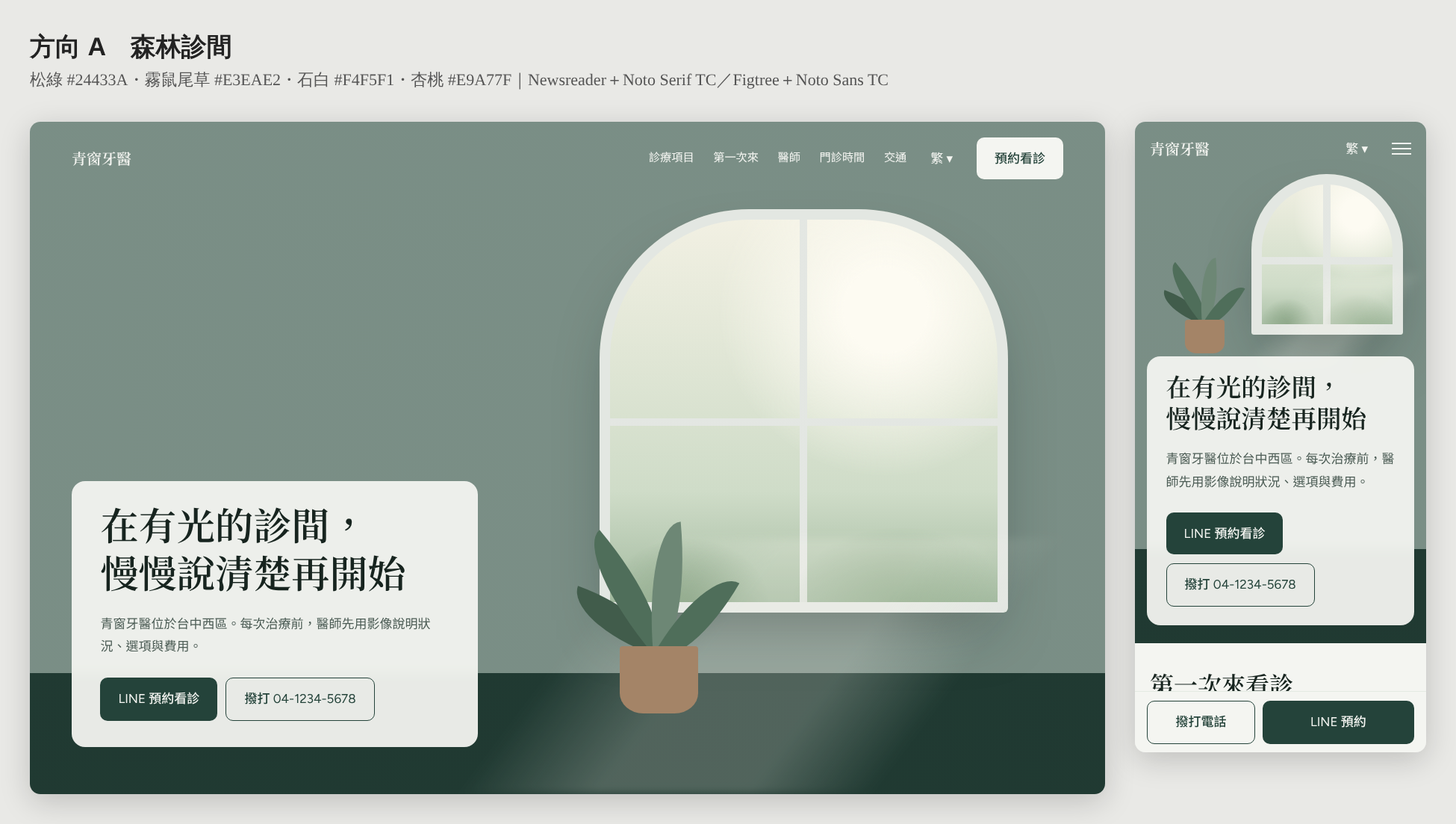
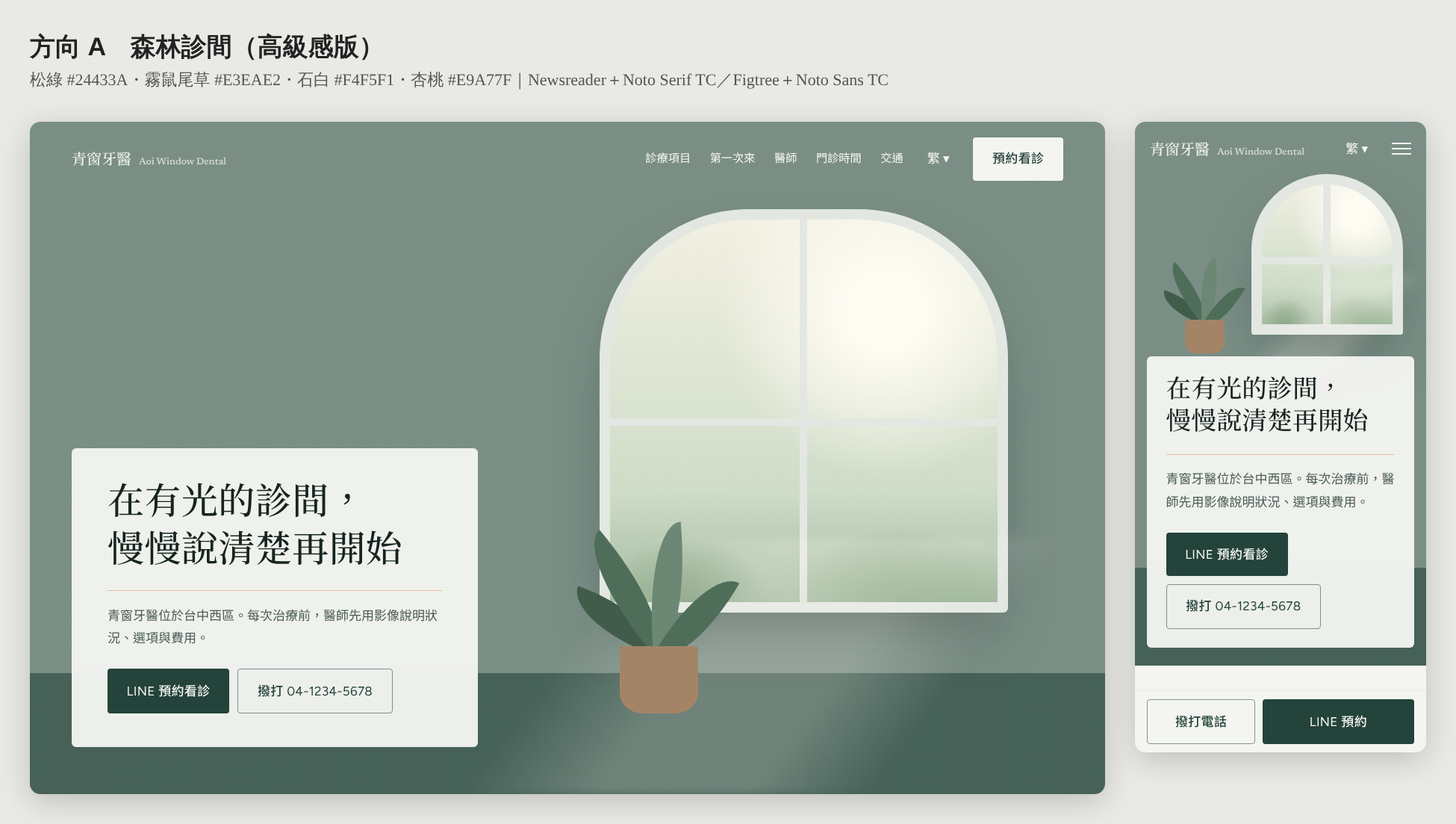
Add premium-feel standard (DESIGN.md 2.9), upgrade clinic #2 mockups
Claude-Session: https://claude.ai/code/session_016ub6HU8UtdgPHkCx1HUXwU

diff --git a/research_notes/牙醫第二款示意圖/B-親子小牙醫.html b/research_notes/牙醫第二款示意圖/B-親子小牙醫.html
@@ -1,49 +1,49 @@
 <!DOCTYPE html><html lang="zh-Hant"><head><meta charset="UTF-8"><meta name="viewport" content="width=device-width, initial-scale=1">
-<link href="https://fonts.googleapis.com/css2?family=Fredoka:wght@600&family=Nunito+Sans:wght@400;700&family=Noto+Sans+TC:wght@400;500;700;900&display=swap" rel="stylesheet">
+<link href="https://fonts.googleapis.com/css2?family=Young+Serif&family=Nunito+Sans:wght@400;600&family=Noto+Serif+TC:wght@500&family=Noto+Sans+TC:wght@400;500&display=swap" rel="stylesheet">
 <style>
-:root{--bg:#F5F9FF;--navy:#1B2A4A;--sun:#FFD45C;--coral:#FF8A6B;--mint:#CDEFE3;--muted:#46536E;--white:#FCFDFF}
+:root{--bg:#F6F7F4;--navy:#1E2B45;--sun:#E9C46A;--coral:#D98E7A;--mint:#DCE8E1;--muted:#4D5768;--white:#FBFBF9}
 *{box-sizing:border-box;margin:0;padding:0}
 p{text-wrap:pretty}
 body{background:var(--bg);color:var(--navy);font:400 17px/1.8 "Nunito Sans","Noto Sans TC",sans-serif;overflow-x:clip}
-h1,h2{font-family:Fredoka,"Noto Sans TC",sans-serif;font-weight:700;line-height:1.25;text-wrap:balance}
+h1,h2{font-family:"Young Serif","Noto Serif TC",serif;font-weight:500;line-height:1.3;text-wrap:balance}
 header{display:flex;align-items:center;gap:2rem;padding:1.2rem clamp(1.25rem,4vw,3.5rem)}
-.logo{display:flex;align-items:center;gap:.55rem;font:900 1.2rem/1 "Noto Sans TC";margin-right:auto}
-.logo i{width:34px;height:34px;border-radius:12px;background:var(--sun);display:grid;place-items:center}
-.logo i::after{content:"";width:14px;height:14px;background:var(--navy);clip-path:polygon(50% 0,61% 35%,98% 35%,68% 57%,79% 91%,50% 70%,21% 91%,32% 57%,2% 35%,39% 35%)}
+.logo{display:flex;align-items:center;gap:.6rem;font:500 1.2rem/1 "Noto Serif TC";margin-right:auto}
+.logo i{width:30px;height:30px;border-radius:50%;background:var(--sun);display:grid;place-items:center}
+.logo i::after{content:"";width:10px;height:10px;border-radius:50%;background:var(--navy)}
 nav{display:flex;gap:1.5rem;font-weight:500;font-size:.95rem}
-.btn{display:inline-flex;align-items:center;justify-content:center;padding:.85rem 1.6rem;border-radius:999px;font-weight:700;text-decoration:none}
-.btn-p{background:var(--navy);color:var(--white)}.btn-s{background:var(--sun);color:var(--navy)}.btn-g{border:2px solid var(--navy)}
-.hero{display:grid;grid-template-columns:minmax(0,1fr) minmax(0,1fr);gap:3rem;align-items:center;padding:2.5rem clamp(1.25rem,4vw,3.5rem) 4rem;max-width:1300px;margin:auto}
-.hero h1{font-size:clamp(2.2rem,4vw,3.6rem);margin-bottom:1rem}
+.btn{display:inline-flex;align-items:center;justify-content:center;padding:.85rem 1.6rem;border-radius:999px;font-weight:600;text-decoration:none}
+.btn-p{background:var(--navy);color:var(--white)}.btn-s{background:var(--navy);color:var(--white)}.btn-g{border:1px solid color-mix(in srgb,var(--navy) 45%,transparent)}
+.hero{display:grid;grid-template-columns:minmax(0,1fr) minmax(0,1fr);gap:5rem;align-items:center;padding:4rem clamp(1.25rem,4vw,3.5rem) 4rem;max-width:1300px;margin:auto}
+.hero h1{font-size:clamp(2.2rem,3.8vw,3.4rem);margin-bottom:1.2rem}
 .hero p{color:var(--muted);font-size:1.08rem;margin-bottom:1.8rem;max-width:30rem}
 .cta{display:flex;flex-wrap:wrap;gap:.7rem}
 .facts{display:flex;gap:.6rem;margin-top:1.6rem;flex-wrap:wrap}
-.facts span{background:var(--mint);padding:.3rem .9rem;border-radius:999px;font-size:.88rem;font-weight:500}
-.art{position:relative;aspect-ratio:1/.92}
-.blob{position:absolute;inset:4% 6% 2% 4%;border-radius:58% 42% 48% 52%/52% 46% 54% 48%;background:var(--sun)}
-.photo{position:absolute;inset:12% 14% 10% 12%;border-radius:46% 54% 44% 56%/50% 44% 56% 50%;overflow:hidden;
- background:radial-gradient(circle at 38% 40%,#ffe9d8 0 12%,transparent 12.5%),radial-gradient(ellipse 22% 26% at 38% 70%,var(--coral) 0 98%,transparent),radial-gradient(circle at 64% 46%,#f6dcc6 0 9%,transparent 9.5%),radial-gradient(ellipse 16% 20% at 64% 74%,color-mix(in srgb,var(--navy) 70%,var(--mint)) 0 98%,transparent),linear-gradient(180deg,var(--mint),color-mix(in srgb,var(--mint) 60%,var(--white)))}
-.brush{position:absolute;right:2%;top:14%;width:9%;height:44%;border-radius:20px;background:var(--coral);transform:rotate(22deg)}
-.brush::before{content:"";position:absolute;top:-16%;left:-10%;right:-10%;height:22%;border-radius:8px;background:repeating-linear-gradient(90deg,var(--white) 0 4px,var(--mint) 4px 8px)}
-.star{position:absolute;width:12%;aspect-ratio:1;background:var(--coral);clip-path:polygon(50% 0,61% 35%,98% 35%,68% 57%,79% 91%,50% 70%,21% 91%,32% 57%,2% 35%,39% 35%)}
-.s1{left:0;top:8%}.s2{left:8%;bottom:4%;width:8%;background:var(--navy)}.s3{right:12%;bottom:0;width:7%;background:var(--sun);outline:0}
-.wave{height:60px;background:radial-gradient(40px 30px at 40px 60px,var(--white) 98%,transparent) 0 0/80px 60px repeat-x}
-.svc{background:var(--white);padding:2.5rem clamp(1.25rem,4vw,3.5rem) 5rem}
+.facts span{font-size:.9rem;color:var(--muted);padding-right:1rem;border-right:1px solid color-mix(in srgb,var(--navy) 20%,transparent)}.facts span:last-child{border:0}
+.art{position:relative;aspect-ratio:4/4.6;max-width:500px;justify-self:end;width:100%}
+.photo{position:absolute;inset:0 0 0 8%;border-radius:999px 999px 8px 8px;overflow:hidden;
+ background:radial-gradient(ellipse 60% 45% at 70% 18%,color-mix(in srgb,var(--white) 80%,transparent),transparent 70%),
+ radial-gradient(circle at 40% 44%,#efd9c8 0 7%,transparent 7.3%),radial-gradient(ellipse 17% 21% at 40% 66%,var(--coral) 0 98%,transparent),
+ radial-gradient(circle at 63% 39%,#e6cbb6 0 9.5%,transparent 9.8%),radial-gradient(ellipse 23% 30% at 63% 70%,color-mix(in srgb,var(--navy) 75%,var(--mint)) 0 98%,transparent),
+ linear-gradient(180deg,var(--mint),color-mix(in srgb,var(--mint) 55%,var(--sun)) 100%)}
+.ring{position:absolute;left:0;bottom:12%;width:30%;aspect-ratio:1;border-radius:50%;border:1px solid color-mix(in srgb,var(--navy) 35%,transparent)}
+.dot{position:absolute;left:4%;bottom:6%;width:12%;aspect-ratio:1;border-radius:50%;background:var(--sun)}
+.wave{height:0}
+.svc{background:var(--white);padding:6rem clamp(1.25rem,4vw,3.5rem) 5rem}
 .svc h2{text-align:center;font-size:2rem;margin-bottom:1.3rem}
 .tabs{display:flex;justify-content:center;gap:.5rem;margin-bottom:2rem}
-.tabs span{padding:.7rem 1.6rem;border-radius:999px;border:2px solid color-mix(in srgb,var(--navy) 18%,transparent);font-weight:700}
-.tabs .on{background:var(--sun);border-color:var(--sun)}
+.tabs span{padding:.6rem 1.5rem;border-radius:999px;border:1px solid color-mix(in srgb,var(--navy) 22%,transparent);font-weight:600}
+.tabs .on{background:var(--navy);border-color:var(--navy);color:var(--white)}
 .items{display:grid;grid-template-columns:repeat(4,minmax(0,1fr));gap:1rem;max-width:1200px;margin:auto}
-.it{background:var(--bg);border-radius:24px;padding:1.4rem}.it h3{font-size:1.08rem}.it p{color:var(--muted);font-size:.92rem;line-height:1.65}
+.it{border-top:1px solid color-mix(in srgb,var(--navy) 18%,transparent);padding:1.2rem 0}.it h3{font-size:1.08rem}.it p{color:var(--muted);font-size:.92rem;line-height:1.65}
 .mbar{display:none}.burger{display:none;width:26px;height:16px;border-top:2px solid;border-bottom:2px solid;position:relative}.burger::after{content:"";position:absolute;left:0;right:0;top:5px;border-top:2px solid}
 @media(max-width:760px){nav,header .btn{display:none}.burger{display:block}
- .hero{grid-template-columns:1fr;gap:1.2rem;padding-top:.5rem}.art{order:-1;max-width:330px;width:100%;margin:auto;aspect-ratio:1/.75}
+ .hero{grid-template-columns:1fr;gap:1.2rem;padding-top:.5rem}.art{order:-1;max-width:none;justify-self:stretch;aspect-ratio:1/1.05}.photo{inset:0;border-radius:180px 180px 8px 8px}.ring,.dot{display:none}
  .items{grid-template-columns:repeat(2,minmax(0,1fr))}.tabs span{padding:.6rem 1.1rem}
  .mbar{display:grid;grid-template-columns:1fr 1.4fr;gap:.6rem;position:fixed;inset:auto 0 0;padding:.7rem 1rem;background:var(--white);z-index:9;box-shadow:0 -1px 0 var(--mint)}}
 </style></head><body>
 <header><span class="logo"><i></i>晴晴親子牙醫</span><nav><span>孩子看牙</span><span>大人</span><span>長輩</span><span>門診時間</span><span>交通</span></nav><span>繁 ▾</span><a class="btn btn-s">LINE 預約</a><span class="burger"></span></header>
 <section class="hero"><div><h1>第一次看牙，<br>從認識診間開始</h1><p>晴晴牙醫在新竹東區。先讓孩子摸摸器材、躺躺看椅子，準備好了再檢查。</p><div class="cta"><a class="btn btn-p">LINE 預約</a><a class="btn btn-g">撥打 03-123-4567</a></div><div class="facts"><span>兒童塗氟</span><span>窩溝封填</span><span>週六全天看診</span></div></div>
-<div class="art"><div class="blob"></div><div class="photo"></div><div class="brush"></div><i class="star s1"></i><i class="star s2"></i><i class="star s3"></i></div></section>
+<div class="art" role="img" aria-label="孩子與家長在診間的照片位置"><div class="photo"></div><div class="ring"></div><div class="dot"></div></div></section>
 <div class="wave"></div>
 <section class="svc"><h2>誰要來看牙？</h2><div class="tabs"><span class="on">孩子</span><span>大人</span><span>長輩</span></div>
 <div class="items"><div class="it"><h3>乳牙檢查</h3><p>長出第一顆牙就可以開始。</p></div><div class="it"><h3>兒童塗氟</h3><p>未滿 6 歲每半年一次。</p></div><div class="it"><h3>窩溝封填</h3><p>恆牙長出後保護咬合面。</p></div><div class="it"><h3>蛀牙治療</h3><p>先溝通、再分次進行。</p></div></div></section>

diff --git a/research_notes/牙醫第二款示意圖/A-森林診間.html b/research_notes/牙醫第二款示意圖/A-森林診間.html
@@ -1,19 +1,19 @@
 <!DOCTYPE html><html lang="zh-Hant"><head><meta charset="UTF-8"><meta name="viewport" content="width=device-width, initial-scale=1">
-<link href="https://fonts.googleapis.com/css2?family=Newsreader:opsz,wght@6..72,500&family=Figtree:wght@400;600&family=Noto+Serif+TC:wght@600&family=Noto+Sans+TC:wght@400;500&display=swap" rel="stylesheet">
+<link href="https://fonts.googleapis.com/css2?family=Newsreader:opsz,wght@6..72,500&family=Figtree:wght@400;600&family=Noto+Serif+TC:wght@500&family=Noto+Sans+TC:wght@400;500&display=swap" rel="stylesheet">
 <style>
 :root{--pine:#24433A;--sage:#E3EAE2;--stone:#F4F5F1;--ink:#17241F;--apricot:#E9A77F;--muted:#4C5C55;--sky:#EEF3EC;--leaf:#4F6E5A}
 *{box-sizing:border-box;margin:0;padding:0}
 p{text-wrap:pretty}
 body{background:var(--stone);color:var(--ink);font:400 17px/1.8 Figtree,"Noto Sans TC",sans-serif;overflow-x:clip}
-h1,h2{font-family:Newsreader,"Noto Serif TC",serif;font-weight:600;line-height:1.25;text-wrap:balance}
+h1,h2{font-family:Newsreader,"Noto Serif TC",serif;font-weight:500;line-height:1.3;letter-spacing:.01em;text-wrap:balance}
 header{position:absolute;inset:0 0 auto;z-index:5;display:flex;align-items:center;gap:2rem;padding:1.3rem clamp(1.25rem,4vw,3.5rem);color:var(--stone)}
-.logo{font:600 1.25rem/1 "Noto Serif TC",serif;margin-right:auto}
+.logo{font:500 1.25rem/1 "Noto Serif TC",serif;margin-right:auto}
 nav{display:flex;gap:1.6rem;font-size:.95rem}
-.btn{display:inline-flex;align-items:center;justify-content:center;padding:.8rem 1.5rem;border-radius:10px;font-weight:500;text-decoration:none}
-.btn-p{background:var(--pine);color:var(--stone)}.btn-g{border:1.5px solid var(--pine);color:var(--pine)}
+.btn{display:inline-flex;align-items:center;justify-content:center;padding:.85rem 1.6rem;border-radius:4px;font-weight:500;letter-spacing:.02em;text-decoration:none}
+.btn-p{background:var(--pine);color:var(--stone)}.btn-g{border:1px solid color-mix(in srgb,var(--pine) 55%,transparent);color:var(--pine)}
 header .btn-p{background:var(--stone);color:var(--pine)}
 .hero{position:relative;height:min(100vh,900px);min-height:640px;overflow:hidden;
- background:linear-gradient(180deg,color-mix(in srgb,var(--pine) 55%,var(--sage)) 0 82%,color-mix(in srgb,var(--pine) 70%,var(--ink)) 82%)}
+ background:linear-gradient(180deg,color-mix(in srgb,var(--pine) 55%,var(--sage)) 0 82%,color-mix(in srgb,var(--pine) 82%,var(--sage)) 82%)}
 /* 窗 */
 .win{position:absolute;right:9%;top:13%;width:38%;height:60%;border-radius:200px 200px 6px 6px;
  background:radial-gradient(circle at 70% 25%,#fdfbf2 0 10%,transparent 40%),linear-gradient(180deg,#f3f1e4,#cfdcc8 70%,#9fb79c);
@@ -29,14 +29,14 @@ header .btn-p{background:var(--stone);color:var(--pine)}
 .pot{position:absolute;bottom:0;left:22%;width:56%;height:32%;border-radius:4px 4px 30% 30%;background:color-mix(in srgb,var(--apricot) 65%,var(--pine))}
 .lf{position:absolute;bottom:28%;left:46%;width:28%;height:62%;border-radius:100% 0;background:var(--leaf);transform-origin:bottom left}
 .l1{transform:rotate(-40deg)}.l2{transform:rotate(-5deg);background:color-mix(in srgb,var(--leaf) 80%,var(--sage))}.l3{transform:rotate(30deg);height:50%}.l4{transform:rotate(-70deg);height:45%;background:color-mix(in srgb,var(--leaf) 75%,var(--ink))}
-.panel{position:absolute;left:clamp(1.25rem,4vw,3.5rem);bottom:clamp(2rem,7vh,4.5rem);width:min(34rem,calc(100% - 2.5rem));padding:2.2rem 2.4rem;border-radius:18px;background:color-mix(in srgb,var(--stone) 94%,transparent);backdrop-filter:blur(8px)}
-.panel h1{font-size:clamp(2.1rem,3.6vw,3.2rem);margin-bottom:.8rem}
+.panel{position:absolute;left:clamp(1.25rem,4vw,3.5rem);bottom:clamp(2rem,7vh,4.5rem);width:min(34rem,calc(100% - 2.5rem));padding:2.8rem 3rem;border-radius:6px;background:color-mix(in srgb,var(--stone) 96%,transparent);backdrop-filter:blur(8px)}
+.panel h1{font-size:clamp(2.1rem,3.4vw,3.1rem);margin-bottom:1.1rem;padding-bottom:1.1rem;border-bottom:1px solid color-mix(in srgb,var(--apricot) 70%,transparent)}
 .panel p{color:var(--muted);margin-bottom:1.6rem}
 .cta{display:flex;flex-wrap:wrap;gap:.7rem}
-.steps{display:grid;grid-template-columns:repeat(3,minmax(0,1fr));gap:2rem;padding:4.5rem clamp(1.25rem,4vw,3.5rem);max-width:1240px;margin:auto}
+.steps{display:grid;grid-template-columns:repeat(3,minmax(0,1fr));gap:2rem;padding:7rem clamp(1.25rem,4vw,3.5rem);max-width:1240px;margin:auto}
 .steps h2{grid-column:1/-1;font-size:2rem}
-.step{border-top:2px solid var(--pine);padding-top:1rem}
-.step b{font:600 1.7rem/1 Newsreader,serif;color:var(--pine);display:block;margin-bottom:.5rem}
+.step{border-top:1px solid color-mix(in srgb,var(--pine) 40%,transparent);padding-top:1rem}
+.step b{font:400 1.9rem/1 Newsreader,serif;color:var(--pine);display:block;margin-bottom:.5rem}
 .step h3{font-size:1.1rem;font-weight:500}.step p{color:var(--muted);font-size:.95rem}
 .mbar{display:none}
 .burger{display:none;width:26px;height:16px;border-top:2px solid;border-bottom:2px solid;position:relative}
@@ -50,7 +50,7 @@ header .btn-p{background:var(--stone);color:var(--pine)}
  .mbar{display:grid;grid-template-columns:1fr 1.4fr;gap:.6rem;position:fixed;inset:auto 0 0;padding:.7rem 1rem;background:var(--stone);box-shadow:0 -1px 0 var(--sage);z-index:9}}
 
 </style></head><body>
-<header><span class="logo">青窗牙醫</span><nav><span>診療項目</span><span>第一次來</span><span>醫師</span><span>門診時間</span><span>交通</span></nav><span>繁 ▾</span><a class="btn btn-p">預約看診</a><span class="burger"></span></header>
+<header><span class="logo">青窗牙醫 <small style="font:400 .8rem Newsreader;opacity:.75;margin-left:.3rem">Aoi Window Dental</small></span><nav><span>診療項目</span><span>第一次來</span><span>醫師</span><span>門診時間</span><span>交通</span></nav><span>繁 ▾</span><a class="btn btn-p">預約看診</a><span class="burger"></span></header>
 <section class="hero"><div class="scene"><div class="win"></div><div class="beam"></div><div class="plant"><div class="lf l4"></div><div class="lf l1"></div><div class="lf l2"></div><div class="lf l3"></div><div class="pot"></div></div></div>
 <div class="panel"><h1>在有光的診間，慢慢說清楚再開始</h1><p>青窗牙醫位於台中西區。每次治療前，醫師先用影像說明狀況、選項與費用。</p><div class="cta"><a class="btn btn-p">LINE 預約看診</a><a class="btn btn-g">撥打 04-1234-5678</a></div></div></section>
 <section class="steps"><h2>第一次來看診</h2><div class="step"><b>1</b><h3>預約時段</h3><p>LINE 或電話預約，告訴我們哪裡不舒服。</p></div><div class="step"><b>2</b><h3>檢查與說明</h3><p>拍攝影像後，醫師說明狀況與可選的治療方式。</p></div><div class="step"><b>3</b><h3>確認後再治療</h3><p>了解費用與時程，你決定好了再開始。</p></div></section>

diff --git a/research_notes/牙醫第二款示意圖/C-門診看板.html b/research_notes/牙醫第二款示意圖/C-門診看板.html
@@ -1,36 +1,36 @@
 <!DOCTYPE html><html lang="zh-Hant"><head><meta charset="UTF-8"><meta name="viewport" content="width=device-width, initial-scale=1">
-<link href="https://fonts.googleapis.com/css2?family=Schibsted+Grotesk:wght@400;600;800&family=Noto+Sans+TC:wght@400;500;700;900&display=swap" rel="stylesheet">
+<link href="https://fonts.googleapis.com/css2?family=Schibsted+Grotesk:wght@400;500;600&family=Noto+Sans+TC:wght@400;500;700&display=swap" rel="stylesheet">
 <style>
-:root{--paper:#F1F1EE;--ink:#14213D;--cobalt:#2F54EB;--signal:#E8590C;--ice:#E3E9FD;--muted:#4A5468;--line:#D6D7D2;--white:#FBFBF9}
+:root{--paper:#F1F1EE;--ink:#14213D;--cobalt:#273C9E;--signal:#C2410C;--ice:#E6E8EF;--muted:#4A5468;--line:#D6D7D2;--white:#FBFBF9}
 *{box-sizing:border-box;margin:0;padding:0}
 p{text-wrap:pretty}
 body{background:var(--paper);color:var(--ink);font:400 18px/1.75 "Schibsted Grotesk","Noto Sans TC",sans-serif;overflow-x:clip;font-variant-numeric:tabular-nums}
 header{display:flex;align-items:center;gap:2rem;padding:1.2rem clamp(1.25rem,4vw,3.5rem);border-bottom:1px solid var(--line)}
-.logo{font:900 1.2rem/1 "Noto Sans TC";margin-right:auto;display:flex;gap:.6rem;align-items:center}
-.logo i{width:30px;height:30px;border-radius:8px;background:var(--cobalt);position:relative}
+.logo{font:700 1.15rem/1 "Noto Sans TC";margin-right:auto;display:flex;gap:.6rem;align-items:center}
+.logo i{width:28px;height:28px;border-radius:4px;background:var(--cobalt);position:relative}
 .logo i::after{content:"";position:absolute;inset:7px 13px;background:var(--white)}.logo i::before{content:"";position:absolute;inset:13px 7px;background:var(--white)}
 nav{display:flex;gap:1.6rem;font-size:.95rem;font-weight:500}
-.btn{display:inline-flex;align-items:center;justify-content:center;padding:.85rem 1.6rem;border-radius:8px;font-weight:600;text-decoration:none}
-.btn-p{background:var(--cobalt);color:var(--white)}.btn-g{border:1.5px solid var(--ink)}
-.hero{display:grid;grid-template-columns:minmax(0,1fr) minmax(0,1.05fr);gap:3.5rem;align-items:center;padding:3.5rem clamp(1.25rem,4vw,3.5rem) 4rem;max-width:1320px;margin:auto}
-h1{font:800 clamp(2.2rem,4vw,3.6rem)/1.2 "Schibsted Grotesk","Noto Sans TC";letter-spacing:-.01em;margin-bottom:1rem;text-wrap:balance}
+.btn{display:inline-flex;align-items:center;justify-content:center;padding:.85rem 1.6rem;border-radius:4px;font-weight:500;letter-spacing:.02em;text-decoration:none}
+.btn-p{background:var(--cobalt);color:var(--white)}.btn-g{border:1px solid color-mix(in srgb,var(--ink) 45%,transparent)}
+.hero{display:grid;grid-template-columns:minmax(0,1fr) minmax(0,1.05fr);gap:3.5rem;align-items:center;padding:5.5rem clamp(1.25rem,4vw,3.5rem) 6rem;max-width:1320px;margin:auto}
+h1{font:500 clamp(2.2rem,3.8vw,3.4rem)/1.25 "Schibsted Grotesk","Noto Sans TC";letter-spacing:-.01em;margin-bottom:1rem;text-wrap:balance}
 .hero p{color:var(--muted);margin-bottom:1.8rem;max-width:30rem}
 .cta{display:flex;gap:.7rem;flex-wrap:wrap}
-.board{background:var(--ink);color:var(--white);border-radius:14px;padding:1.6rem 1.8rem;box-shadow:0 30px 60px -30px color-mix(in srgb,var(--ink) 60%,transparent)}
+.board{background:var(--ink);color:var(--white);border-radius:6px;padding:2rem 2.2rem}
 .bh{display:flex;justify-content:space-between;align-items:baseline;border-bottom:1px solid color-mix(in srgb,var(--white) 20%,transparent);padding-bottom:.9rem;margin-bottom:.4rem}
 .bh b{font-size:1.3rem}.bh span{font-size:1rem;opacity:.8}
 .row{display:grid;grid-template-columns:4.5rem 1fr auto;gap:1rem;align-items:center;padding:1rem 0;border-bottom:1px solid color-mix(in srgb,var(--white) 12%,transparent)}
 .row:last-child{border:0}
 .row .t{font-weight:600;font-size:1.15rem}.row .tm{display:block;font-size:.95rem;opacity:.75}
-.row .d{font-size:1.45rem;font-weight:700}
-.st{font-size:1rem;font-weight:600;padding:.25rem .8rem;border-radius:6px;background:color-mix(in srgb,var(--white) 12%,transparent)}
-.now .st{background:var(--signal);color:var(--white)}.off{opacity:.55}
+.row .d{font-size:1.4rem;font-weight:500}
+.st{font-size:.95rem;font-weight:500;padding:.25rem .75rem;border-radius:3px;border:1px solid color-mix(in srgb,var(--white) 28%,transparent)}
+.now .st{background:var(--signal);border-color:var(--signal);color:var(--white)}.off{opacity:.55}
 .board .note{margin-top:1rem;font-size:.92rem;color:color-mix(in srgb,var(--white) 78%,var(--ink))}
 .idx{max-width:1320px;margin:auto;padding:1rem clamp(1.25rem,4vw,3.5rem) 4rem}
-.idx h2{font:800 2rem/1.3 "Schibsted Grotesk","Noto Sans TC";margin-bottom:1rem}
-table{width:100%;border-collapse:collapse;background:var(--white);border-radius:12px;overflow:hidden}
-th,td{text-align:left;padding:1rem 1.2rem;border-bottom:1px solid var(--line)}th{background:var(--ice);font-weight:600;font-size:.95rem}
-td.k{font-weight:600}td.m{color:var(--muted)}
+.idx h2{font:500 2rem/1.3 "Schibsted Grotesk","Noto Sans TC";margin-bottom:1rem}
+table{width:100%;border-collapse:collapse}
+th,td{text-align:left;padding:1rem 1.2rem;border-bottom:1px solid var(--line)}th{font-weight:500;font-size:.9rem;color:var(--muted);border-bottom:1px solid var(--ink)}
+td.k{font-weight:500}td.m{color:var(--muted)}
 .mbar{display:none}.burger{display:none;width:26px;height:16px;border-top:2px solid;border-bottom:2px solid;position:relative}.burger::after{content:"";position:absolute;left:0;right:0;top:5px;border-top:2px solid}
 @media(max-width:760px){nav,header .btn{display:none}.burger{display:block}
  .hero{grid-template-columns:1fr;gap:1.5rem;padding-top:1.8rem}.board{padding:1.2rem 1.2rem}.row{grid-template-columns:3.6rem 1fr auto;gap:.7rem}.row .d{font-size:1.2rem}

diff --git a/templates/PROPOSAL-clinic2.md b/templates/PROPOSAL-clinic2.md
@@ -1,7 +1,7 @@
 # 牙醫診所第二款：設計提案（2026-11-29 製作，待使用者選擇）
 
 > 內部用，打包時不會放進商品。
-> **示意圖**（首屏桌機＋手機）：`research_notes/牙醫第二款示意圖/示意圖-A.png`、`-B.png`、`-C.png`，原始 HTML 在同一個資料夾。示意圖只用來選方向，不是成品。依 `DESIGN.md` 第 1 節的「設計計畫」格式。
+> **示意圖**（首屏桌機＋手機）：`research_notes/牙醫第二款示意圖/示意圖-A.png`、`-B.png`、`-C.png`，原始 HTML 在同一個資料夾。示意圖已依「高級感」標準（DESIGN.md 2.9）升級過，只用來選方向，不是成品。依 `DESIGN.md` 第 1 節的「設計計畫」格式。
 > 現有 clinic（安和牙醫）是：藍綠 #0f766e、Plus Jakarta Sans＋Noto Sans TC、圓角卡片、左字右圖首屏、門診表在中段。
 > 第二款要「一眼看得出不同」，不只是換色。三個方向都避開 DESIGN.md 第 3 節的 AI 預設組合。
 
@@ -9,6 +9,7 @@
 - 繁中版遵守《醫療法》：不放見證、前後對比、優惠；英文版可放評價區（標註範例內容）。
 - 「今日門診」仍由同一份門診表用 JS 產生（只改一個地方），這是我們相對市集模板的優勢。
 - 佔位圖要畫出「放什麼照片」的構圖，不是抽象色塊。
+- **高級感（使用者指定，三個方向都要有）**：標題字重 400～500、按鈕小圓角或膠囊但只有一個實心、1px 細線取代粗框與重陰影、點綴色面積 ≤ 5%、桌機區塊間距 ≥ 120px、不用星星貼紙等卡通裝飾。詳見 DESIGN.md 2.9。
 
 ---
 
@@ -49,12 +50,12 @@
 
 | 項目 | 內容 |
 |---|---|
-| 配色 | 晴空白 `#F5F9FF`（頁面底）／深海軍 `#1B2A4A`（文字、按鈕）／向日黃 `#FFD45C`（大色塊、重點底色，上面放深海軍字）／珊瑚 `#FF8A6B`（插畫點綴）／薄荷 `#CDEFE3`（輔助區塊底） |
-| 字體 | 標題：Fredoka（英，圓潤）＋ Noto Sans TC 700（中）；內文：Nunito Sans（英）＋ Noto Sans TC；日文：Zen Maru Gothic ＋ Noto Sans JP。（中文圓體可評估 jf open 粉圓，製作前先確認 Google Fonts 是否收錄） |
-| 版面 | 首屏左字右圖，但圖是不規則圓形遮罩＋幾何牙刷、星星貼紙；診療項目依「孩子／大人／長輩」三個分頁切換（不是 6 張卡）；「小朋友第一次看牙」準備清單；波浪形區塊分隔；底部固定列「LINE 預約」用黃色 |
-| 記憶點 | 依家庭成員分類的診療分頁＋黃色大色塊 |
+| 配色（高級感版） | 霧白 `#F6F7F4`（頁面底）／深海軍 `#1E2B45`（文字、主要按鈕）／蜂蜜黃 `#E9C46A`（只用在 logo 與一個小圓點）／陶玫瑰 `#D98E7A`（照片構圖點綴）／霧薄荷 `#DCE8E1`（照片底色、輔助區塊）。原本的亮黃大色塊與珊瑚色改為低彩度，避免顯得幼稚 |
+| 字體（高級感版） | 標題：Young Serif（英，圓潤的襯線，溫暖但不幼稚）＋ Noto Serif TC 500（中）；內文：Nunito Sans ＋ Noto Sans TC；日文：Shippori Mincho ＋ Zen Maru Gothic |
+| 版面（高級感版） | 首屏左字右圖，圖是大拱形親子照片框＋一個細線圓；特點用細直線分隔的文字（不用膠囊標籤）；診療項目依「孩子／大人／長輩」三個分頁切換，項目用細線清單；「小朋友第一次看牙」準備清單；不用波浪與星星貼紙 |
+| 記憶點 | 依家庭成員分類的診療分頁＋大拱形親子照片 |
 | 適合 | 兒童牙科、家庭牙醫；跟現有 clinic 的客群區隔最清楚 |
-| 風險 | 黃色大面積要控制在 10～20%，不然會顯得幼稚；圓體中文選擇少 |
+| 風險 | 高級感版的「親子感」主要靠照片；買家換成真實照片前，佔位圖要畫得夠清楚 |
 
 ```
 ┌──────────────────────────────────────┐
@@ -76,8 +77,8 @@
 
 | 項目 | 內容 |
 |---|---|
-| 配色 | 紙灰 `#F1F1EE`（頁面底）／墨藍 `#14213D`（文字、看板底）／鈷藍 `#2F54EB`（品牌、按鈕）／訊號橘 `#E8590C`（只用在「看診中」狀態，旁邊一定有文字）／淺鈷 `#E3E9FD`（表格今天欄） |
-| 字體 | 全站一個字族：Schibsted Grotesk（英）＋ Noto Sans TC（中），用字重和字級做層級；數字 `tabular-nums`；日文 Noto Sans JP。內文 18px，長輩好讀 |
+| 配色（高級感版） | 紙灰 `#F1F1EE`（頁面底）／墨藍 `#14213D`（文字、看板底）／深靛 `#273C9E`（品牌、按鈕，比原本鈷藍沉穩）／琥珀橘 `#C2410C`（只用在「看診中」，旁邊一定有文字）／霧灰藍 `#E6E8EF`（表格今天欄） |
+| 字體（高級感版） | 全站一個字族：Schibsted Grotesk（英）＋ Noto Sans TC（中），標題 500、不用粗黑體，靠字級與留白做層級；數字 `tabular-nums`；日文 Noto Sans JP。內文 18px，長輩好讀 |
 | 版面 | 首屏左邊是大標題＋預約按鈕，右邊是深墨藍「今日門診看板」（大字時段、醫師、狀態，JS 自動更新），手機上看板就在按鈕下方；診療項目是「項目／說明／健保或自費」索引表；門診表在手機改成「依星期展開」的清單；交通區大字地址＋地圖按鈕 |
 | 記憶點 | 首屏的門診看板（把現有款藏在中段的資訊變成主角） |
 | 適合 | 健保門診量大、長輩多、多位醫師輪班的診所；功能取向的買家 |

diff --git a/.claude/agents/design-lead.md b/.claude/agents/design-lead.md
@@ -15,6 +15,7 @@ tools: Read, Grep, Glob, Bash, Write, WebSearch, WebFetch
 ## 你的產出
 依 DESIGN.md 第 1 節格式寫設計計畫，存成 `templates/PROPOSAL-<slug>.md`（或交給你的指示指定的路徑）：
 - 對象與任務、4～6 個有名字的 hex 色票（附 WCAG 對比檢查結果）、字體（英／中／日，各自 Google Fonts 名稱與字重）、一句話版面概念＋ASCII 線框、唯一記憶點、風險。
+- 「高級感檢查」：逐項對照 DESIGN.md 第 2.9 節（使用者指定每款都要有高級感），說明這個方向的高級感從哪裡來。
 - 「預設值自我檢查」：寫出你原本想到的、哪些是 AI 預設、改成什麼、為什麼。
 - 繁中醫療類要遵守《醫療法》（不放見證、前後對比、優惠）。
 

diff --git a/.claude/agents/template-builder.md b/.claude/agents/template-builder.md
@@ -9,7 +9,7 @@ tools: Read, Grep, Glob, Bash, Edit, Write
 ## 開工前必讀
 1. 使用者已選定的設計計畫（`templates/PROPOSAL-<slug>.md`）。沒有選定的計畫就停下來回報，不要自己決定方向。
 2. `templates/SPEC.md`：硬性規格全部遵守（主題變數區、區塊註解、藝術佔位圖、語言切換、SEO、JSON-LD、表單、手機底部固定按鈕、Hallmark 12 條）。
-3. `templates/DESIGN.md`：第 2 節檢查清單、第 3 節 AI 味。
+3. `templates/DESIGN.md`：第 2 節檢查清單（**特別是 2.9 高級感，使用者指定每款都要有**）、第 3 節 AI 味。
 4. 參考同類模板的程式結構（例如 `templates/clinic/index.html`），但**視覺不能沿用**。
 
 ## 工作方式

diff --git a/templates/TEAM.md b/templates/TEAM.md
@@ -27,6 +27,6 @@
 
 ## 規則
 - 審查部只拿到檔案路徑，不拿設計部的結論，避免「被說服」。
-- 審查標準是 `templates/SPEC.md`（硬性）＋ `templates/DESIGN.md`（品質）。
+- 審查標準是 `templates/SPEC.md`（硬性）＋ `templates/DESIGN.md`（品質，含 2.9 高級感：使用者指定每款都要有）。
 - 截圖與暫存檔一律放 scratchpad，不進 repo。
 - 不放金鑰或個人資料；不自行合併到 main。

diff --git a/.claude/agents/design-reviewer.md b/.claude/agents/design-reviewer.md
@@ -21,5 +21,6 @@ tools: Read, Grep, Glob, Bash
 - 結論：可交付／需修正。
 - 問題清單，依嚴重度排序：`[高/中/低] 位置（檔案:行 或 截圖名＋區塊）— 問題 — 建議修法`。
 - AI 味命中幾條、哪幾條。
+- 高級感（DESIGN.md 2.9）：逐項「有／沒有」，並指出最破壞高級感的 3 個地方。
 - 列出你實際看過的截圖尺寸。
 不要修改任何 repo 檔案。
